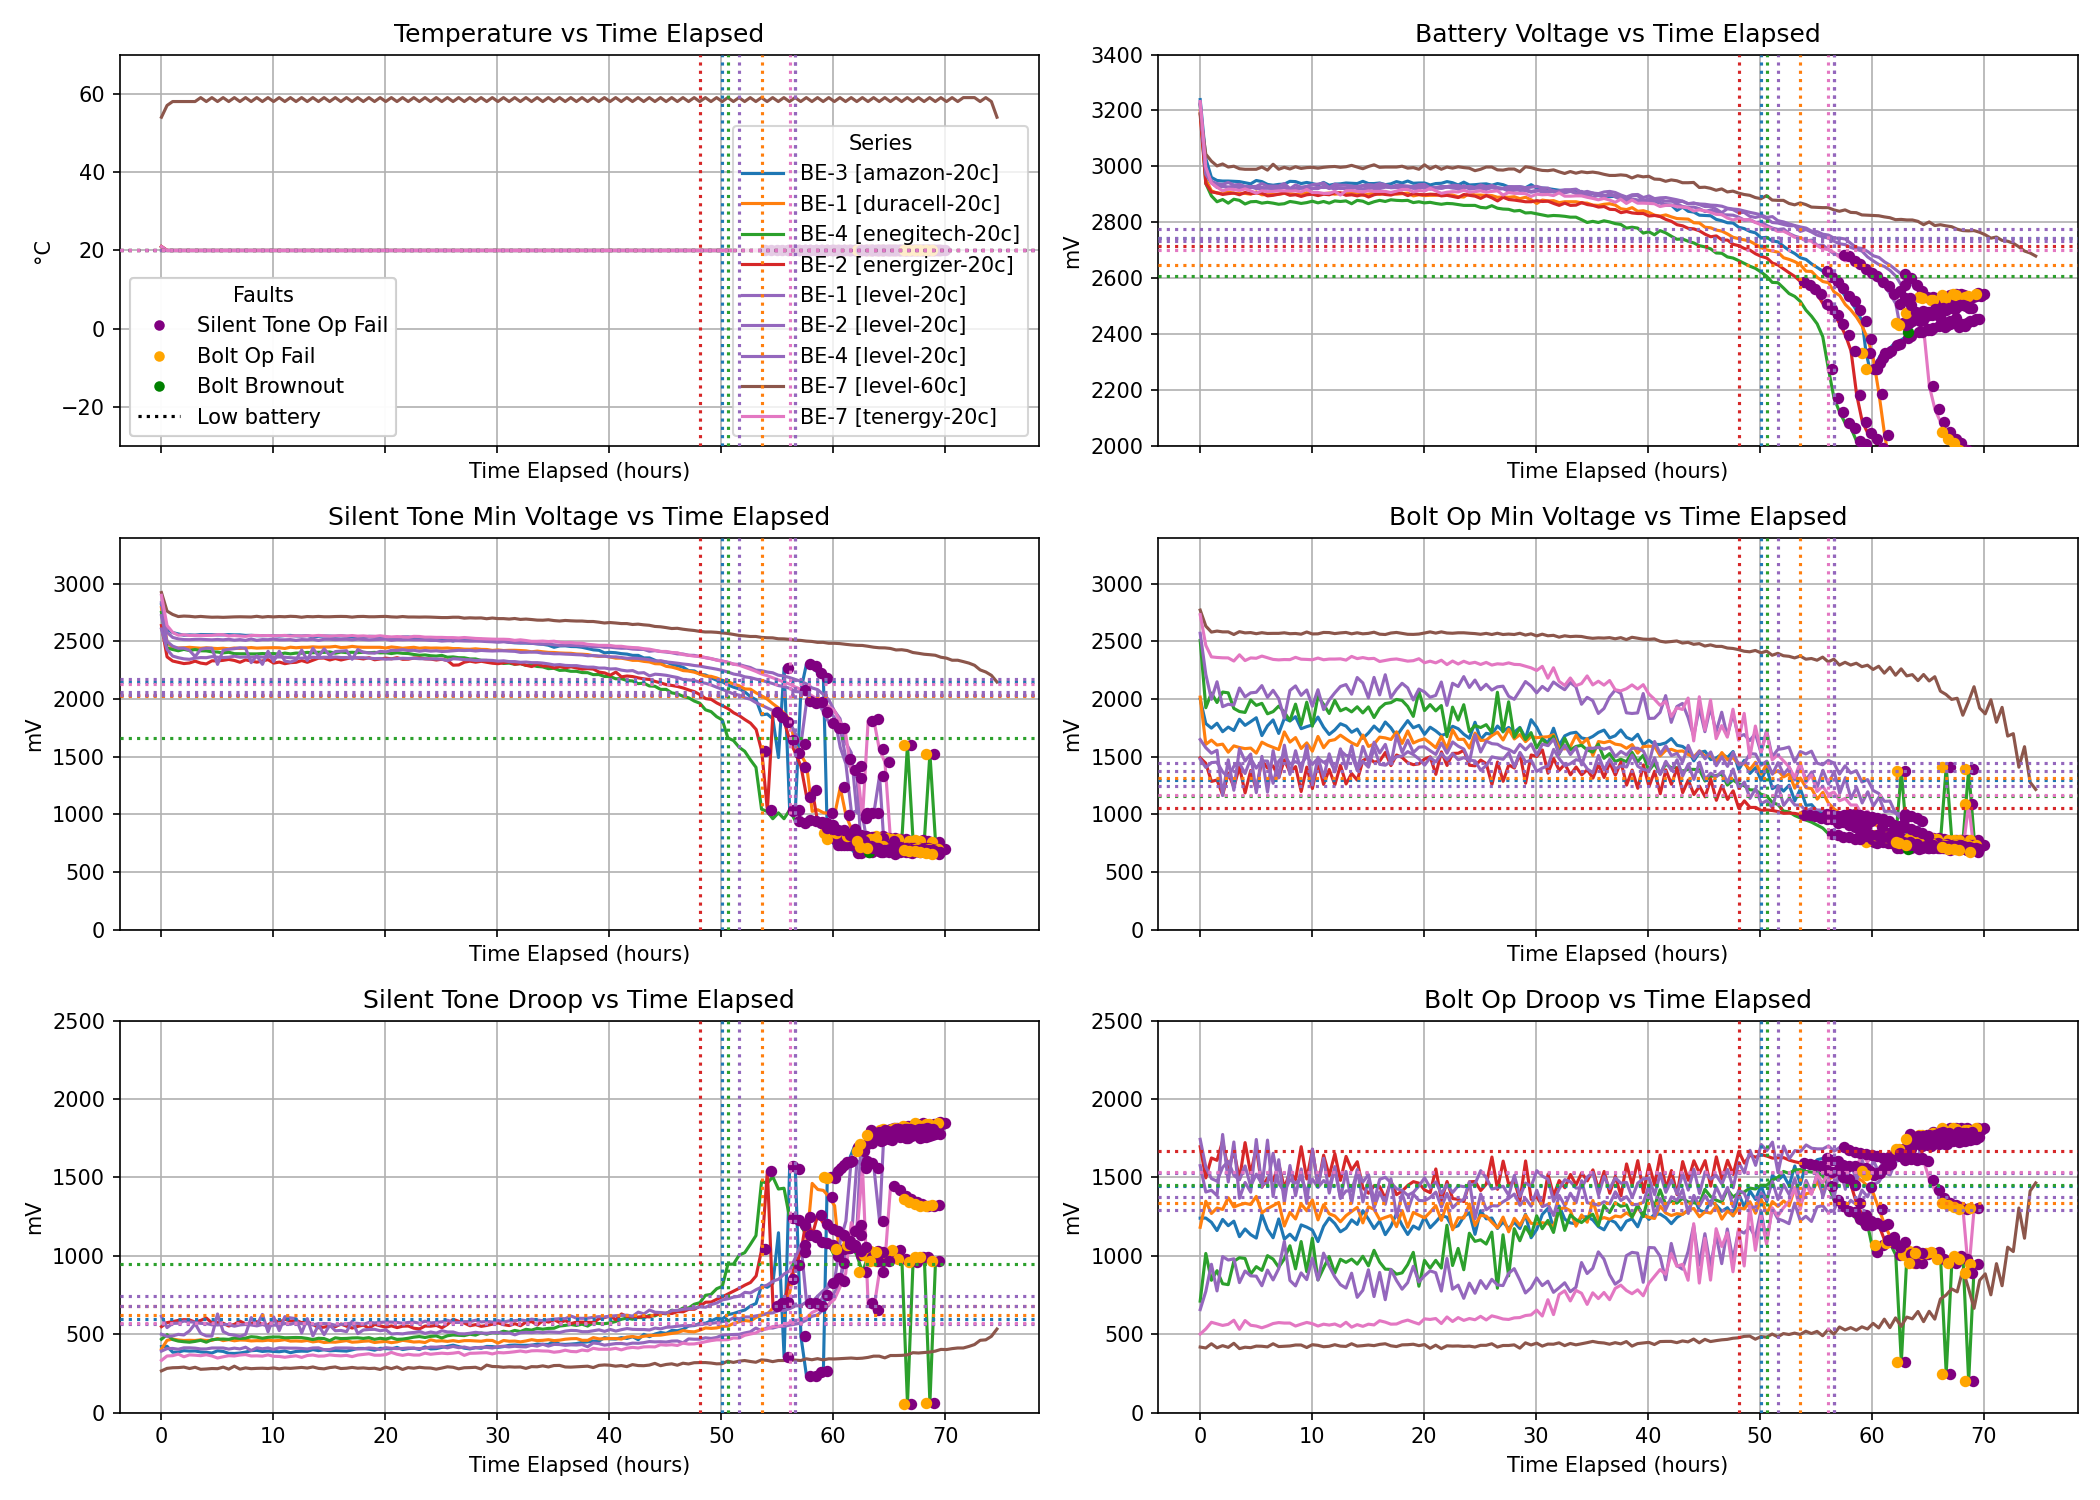
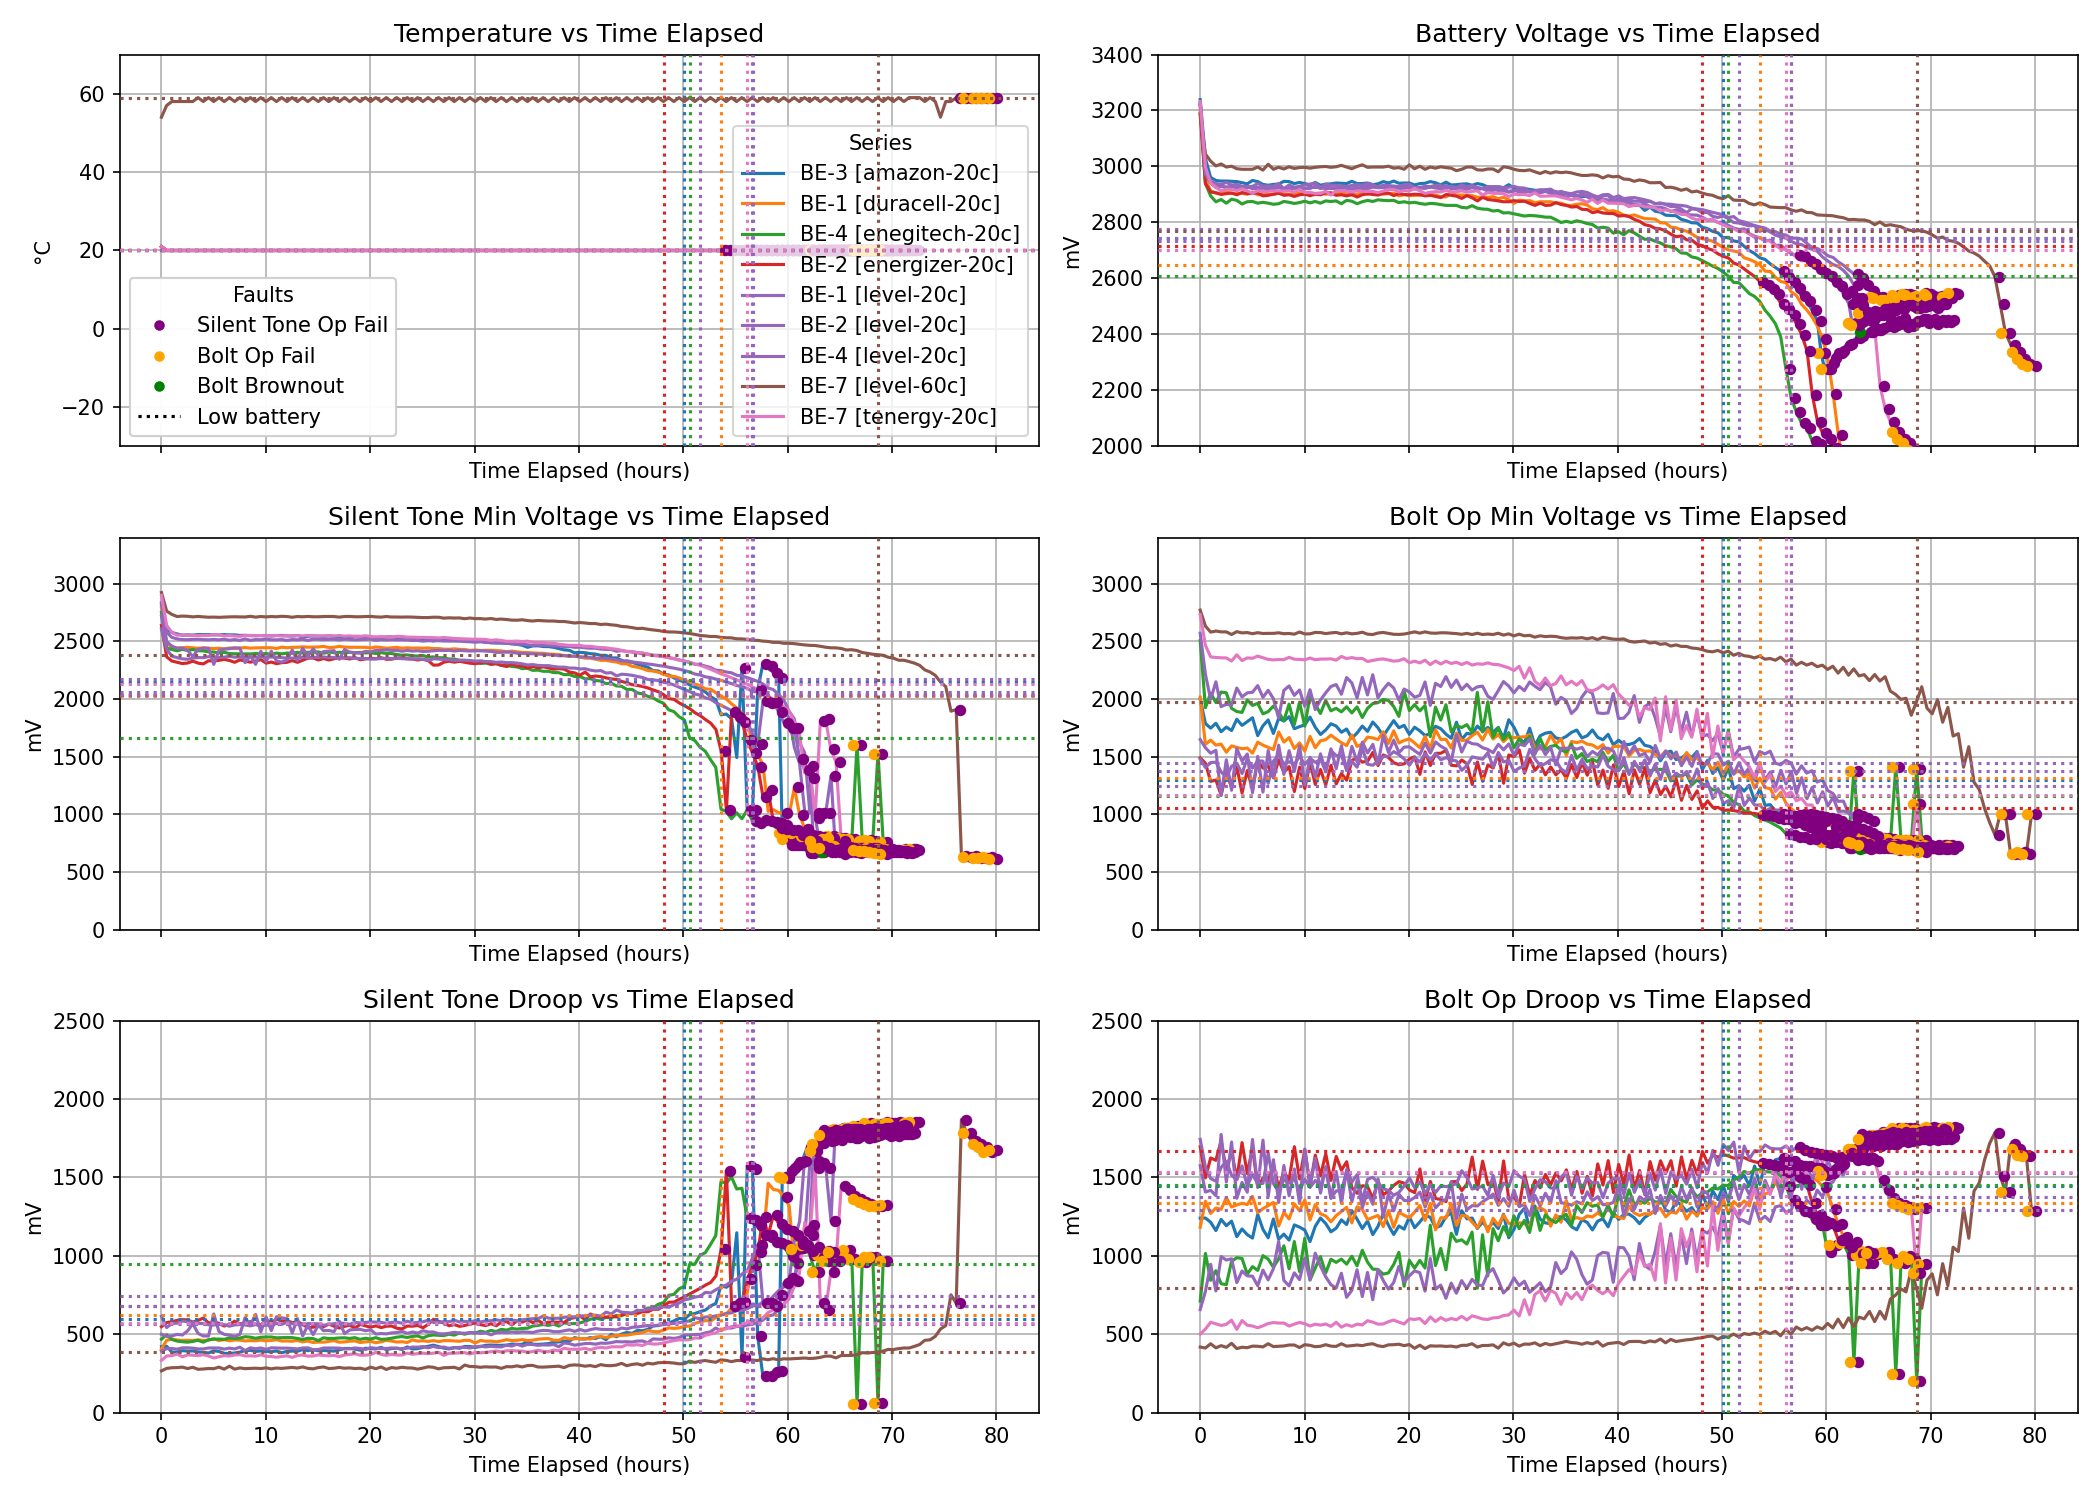
v1

diff --git a/data_analyzer.py b/data_analyzer.py
@@ -1,0 +1,212 @@
+#!/usr/bin/env python3
+import os
+import glob
+import pandas as pd
+import numpy as np
+from typing import Optional, List, Dict
+
+# === CONFIG ===
+CSV_DIR = "csvs/all-data-high-st"
+TIME_COL = "Time Elapsed (hours)"
+TEMP_COL = "temp"
+# If your plotting script trims to 160 rows, keep parity here:
+ROW_LIMIT = 160
+
+# Any column ending with "_mV" will be treated as a voltage-like series
+MV_SUFFIX = "_mV"
+
+# Fault columns (same set used in your plotting script)
+FAULT_COLS = [
+    "fault_brownout",
+    "fault_sound",
+    "fault_sound_brownout",
+    "fault_bolt",
+    "fault_bolt_brownout",
+]
+
+OUT_CSV = "low_battery_summary.csv"
+
+def list_csvs(root: str) -> List[str]:
+    csvs = []
+    for sub in sorted(d for d in os.listdir(root) if os.path.isdir(os.path.join(root, d))):
+        csvs.extend(sorted(glob.glob(os.path.join(root, sub, "*.csv"))))
+    return csvs
+
+def find_low_battery_index(df: pd.DataFrame) -> Optional[int]:
+    """Replicates your logic: find first fault (ignoring first 10% rows),
+    then go to time that's 10% BEFORE that, and choose nearest row index."""
+    # restrict rows (to mirror plotting)
+    if ROW_LIMIT is not None and len(df) > ROW_LIMIT:
+        df = df.iloc[:ROW_LIMIT]
+
+    if TIME_COL not in df.columns:
+        return None
+
+    fault_cols_present = [c for c in FAULT_COLS if c in df.columns]
+    if not fault_cols_present:
+        return None
+
+    any_fault = df[fault_cols_present].any(axis=1).copy()
+    if not any_fault.any():
+        return None
+
+    # Ignore first 10% rows (like your plotting script)
+    n_rows = len(df)
+    min_idx = int(np.ceil(0.10 * n_rows))
+    any_fault.iloc[:min_idx] = False
+
+    if not any_fault.any():
+        return None
+
+    idx_first_fault = any_fault.idxmax()
+
+    t = df[TIME_COL]
+    t0 = t.iloc[0]
+    t_fault = t.loc[idx_first_fault]
+    hours_to_fault = float(t_fault - t0)
+
+    # Target time is 10% before the fault time
+    t_target = t_fault - 0.10 * hours_to_fault
+
+    # Find nearest time index
+    idx_low = (t - t_target).abs().idxmin()
+    return idx_low
+
+def mode_temperature(df: pd.DataFrame) -> Optional[float]:
+    if TEMP_COL not in df.columns:
+        return None
+    m = df[TEMP_COL].mode(dropna=True)
+    if len(m) == 0:
+        return None
+    return float(m.iloc[0])
+
+def numeric_derivatives_at_index(df: pd.DataFrame, idx: int, value_cols: List[str]) -> Dict[str, Dict[str, float]]:
+    """
+    Compute value, first derivative (dV/dt), and second derivative (d2V/dt2)
+    at 'idx' for each column in value_cols.
+    Uses numpy.gradient with respect to TIME_COL.
+    """
+    # Slice to ROW_LIMIT for parity
+    if ROW_LIMIT is not None and len(df) > ROW_LIMIT:
+        df = df.iloc[:ROW_LIMIT]
+
+    # Ensure numeric and monotonic time (if there is jitter, it still works as gradient uses spacing)
+    if TIME_COL not in df.columns:
+        return {}
+    t = pd.to_numeric(df[TIME_COL], errors="coerce").to_numpy()
+
+    # If time has NaNs or is too short, bail gracefully
+    if np.isnan(t).any() or len(t) < 3:
+        return {col: {"value": np.nan, "d1": np.nan, "d2": np.nan} for col in value_cols}
+
+    results: Dict[str, Dict[str, float]] = {}
+
+    # Build a fast lookup from label index to positional index
+    # (since idx could be a label, not positional)
+    pos_idx = df.index.get_loc(idx) if not isinstance(df.index.get_loc(idx), slice) else df.index.get_loc(idx).start
+
+    for col in value_cols:
+        if col not in df.columns:
+            results[col] = {"value": np.nan, "d1": np.nan, "d2": np.nan}
+            continue
+
+        y = pd.to_numeric(df[col], errors="coerce").to_numpy()
+
+        # Optionally, fill NaNs to make derivatives stable; keep original for 'value'
+        y_filled = pd.Series(y).interpolate(limit_direction="both").bfill().ffill().to_numpy()
+
+        # First derivative dV/dt and second derivative d2V/dt2 with nonuniform spacing
+        try:
+            d1 = np.gradient(y_filled, t)
+            d2 = np.gradient(d1, t)
+            val = y[pos_idx]  # original (could be NaN if missing)
+            results[col] = {
+                "value": float(val) if val == val else np.nan,
+                "d1": float(d1[pos_idx]),
+                "d2": float(d2[pos_idx]),
+            }
+        except Exception:
+            results[col] = {"value": np.nan, "d1": np.nan, "d2": np.nan}
+
+    return results
+
+def main():
+    csv_paths = list_csvs(CSV_DIR)
+    if not csv_paths:
+        print(f"No CSVs found under {CSV_DIR}")
+        return
+
+    rows = []
+    printed_header = False
+
+    for path in csv_paths:
+        try:
+            df = pd.read_csv(path)
+        except Exception:
+            continue
+
+        if ROW_LIMIT is not None and len(df) > ROW_LIMIT:
+            df = df.iloc[:ROW_LIMIT]
+
+        idx_low = find_low_battery_index(df)
+        if idx_low is None:
+            continue
+
+        # Gather all *_mV columns present (treat as voltage-like)
+        mv_cols = [c for c in df.columns if c.endswith(MV_SUFFIX)]
+
+        # Compute derivatives at low-batt index
+        derivs = numeric_derivatives_at_index(df, idx_low, mv_cols)
+
+        # Mode temperature
+        temp_mode = mode_temperature(df)
+
+        # Build a flat record: subfolder, idx, time, temp_mode, then per-col triples
+        subfolder = os.path.basename(os.path.dirname(path))
+        t_low = df.loc[idx_low, TIME_COL] if TIME_COL in df.columns else np.nan
+
+        record = {
+            "subfolder": subfolder,
+            "file": os.path.basename(path),
+            "low_batt_idx": idx_low,
+            "time_at_low_batt_hours": float(t_low) if t_low == t_low else np.nan,
+            "temp_mode_C": temp_mode,
+        }
+
+        # Flatten voltage stats
+        for col in mv_cols:
+            stats = derivs.get(col, {"value": np.nan, "d1": np.nan, "d2": np.nan})
+            record[f"{col}__value"] = stats["value"]
+            record[f"{col}__d1_per_hour"] = stats["d1"]
+            record[f"{col}__d2_per_hour2"] = stats["d2"]
+
+        rows.append(record)
+
+        # Pretty print a concise line for quick inspection
+        if not printed_header:
+            print("subfolder | file | t(h) | temp_mode(C) | " +
+                  " | ".join(f"{c} [V,dV/dt,d2V/dt2]" for c in mv_cols))
+            printed_header = True
+
+        triple_strs = []
+        for c in mv_cols:
+            v = record.get(f"{c}__value", np.nan)
+            d1 = record.get(f"{c}__d1_per_hour", np.nan)
+            d2 = record.get(f"{c}__d2_per_hour2", np.nan)
+            triple_strs.append(f"{c}=({v:.3f},{d1:.3f},{d2:.3f})" if all(np.isfinite([v,d1,d2])) else f"{c}=(nan,nan,nan)")
+
+        print(f"{subfolder} | {os.path.basename(path)} | "
+              f"{record['time_at_low_batt_hours']:.3f} | "
+              f"{'%.2f'%temp_mode if temp_mode is not None else 'nan'} | "
+              + " | ".join(triple_strs))
+
+    if not rows:
+        print("No rows to save. Exiting.")
+        return
+
+    out_df = pd.DataFrame(rows)
+    out_df.to_csv(OUT_CSV, index=False)
+    print(f"\nSaved {len(out_df)} rows to {OUT_CSV}")
+
+if __name__ == "__main__":
+    main()

diff --git a/plot_sub_all.py b/plot_sub_all.py
@@ -77,7 +77,7 @@ for sf in subfolders:
 
     for csv_path in csv_files:
         df = pd.read_csv(csv_path)
-        df = df.iloc[:150]
+        df = df.iloc[:160]
 
         if "Time Elapsed (hours)" not in df.columns:
             print(f"    Skipping {csv_path} (missing time column)")
